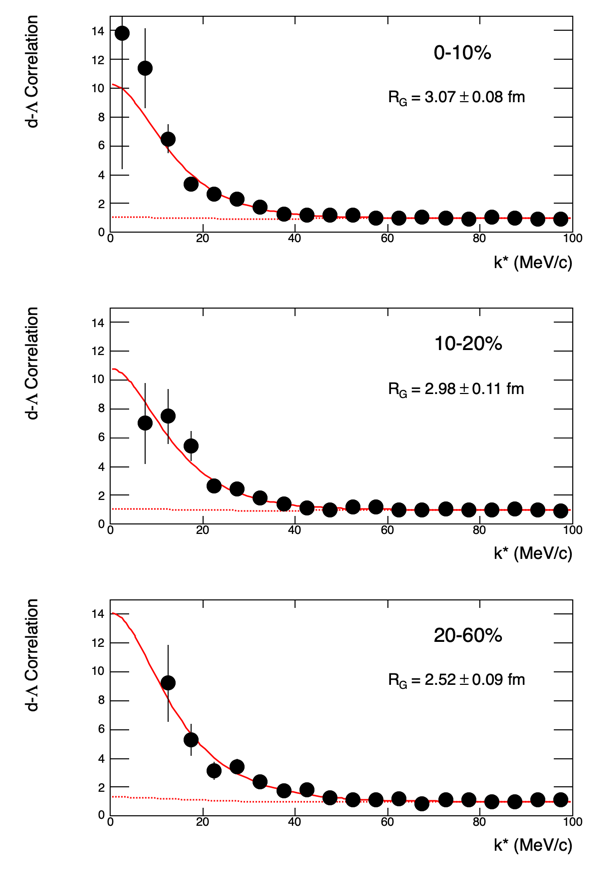
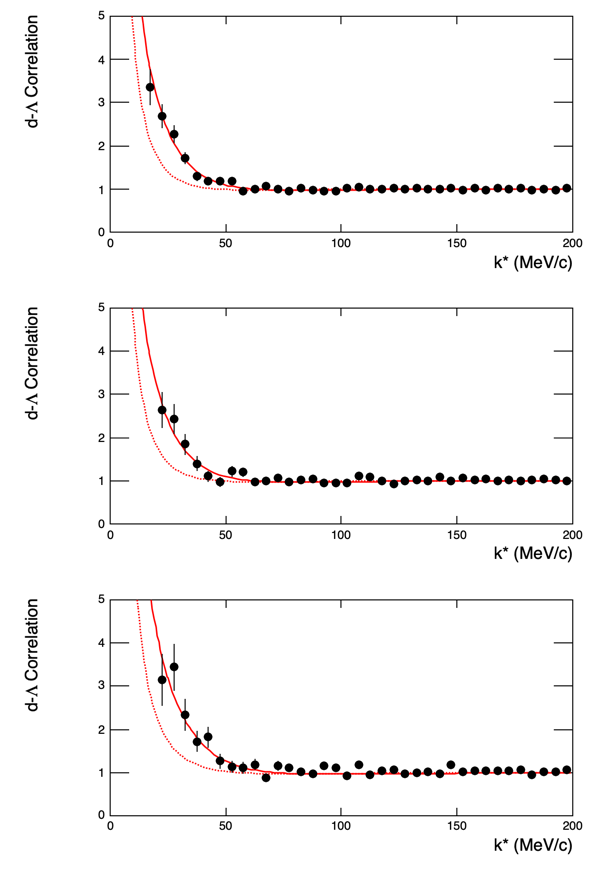
- fixed a bug in fixing parameters in Minuit fitting - added an option for drawing with some pre-set parameters - a few more labels added for different purposes

diff --git a/Hypernuclei/dLambda/Ckstar.C b/Hypernuclei/dLambda/Ckstar.C
@@ -1,11 +1,14 @@
 #include "style.C+"
 #include "draw.C+"
 //#define __EFF__  // allow efficiency for doublet?
+#define __FIT__
+//#define __CONTOUR__
 
 const double hbarc = 197.327;  // MeV * fm
 const double sqrtPi = TMath::Sqrt( TMath::Pi() );
 const Int_t NC = 3;
-const Int_t NP = 20;  // read in 40 points
+const Int_t NP = 40;  // read in 60 points
+const Double_t KMAX = NP*5.0;  // K* max
 #ifdef __EFF__
 const Int_t NPar = 8;  // R0, R1, R2, f00, d00, f01, d01, eff
 #else
@@ -97,8 +100,10 @@ void draw()
 {
   style();
 
-  const Double_t par0[2][2] = {{-16.8, 2.3}, {-16.3, 3.2}};
-  const Double_t par1[3][2] = {{17.3, 3.6}, {10.8, 3.8}, {7.6, 3.6}};
+  //  const Double_t par0[2][2] = {{-16.8, 2.3}, {-16.3, 3.2}};
+  //  const Double_t par1[3][2] = {{17.3, 3.6}, {10.8, 3.8}, {7.6, 3.6}};
+  const Double_t par0[2][2] = {{-16.8, 2.3}, {-40, 2.3}};
+  const Double_t par1[3][2] = {{17.3, 3.6}, {17.3, 3.6}, {17.3, 3.6}};
   
   TCanvas *c1 = new TCanvas("c1","c1",0,0,800,600);
   c1->Draw();
@@ -114,9 +119,10 @@ void draw()
   const Double_t RG = 2.5;
   ofstream outData;
   for(int i=0;i<6;i++) {
+    //    if(i%3!=0) continue;
     outData.open(Form("model/dl_model_R_2.5_D_%d_Q_%d.txt", i/3, i%3));
 
-    cf[i] = new TF1(Form("func_CF_dl_%d",i),CF_dl,0,200,5);
+    cf[i] = new TF1(Form("func_CF_dl_%d",i),CF_dl,0,KMAX,5);
     cf[i]->SetParameters(RG, par0[i/3][0], par0[i/3][1], par1[i%3][0], par1[i%3][1]);
     cf[i]->SetLineWidth(2);
     cf[i]->SetLineColor(i%3+1);
@@ -124,22 +130,22 @@ void draw()
     cf[i]->SetLineStyle(i/3+1);
     cf[i]->Draw("same");
 
-    cf_0[i] = new TF1(Form("func_CF_dl_0_%d",i),CF_dl_0,0,200,3);
+    cf_0[i] = new TF1(Form("func_CF_dl_0_%d",i),CF_dl_0,0,KMAX,3);
     cf_0[i]->SetParameters(RG, par0[i/3][0], par0[i/3][1]);
     cf_0[i]->SetLineWidth(2);
     cf_0[i]->SetLineColor(i%3+1);
     //    cf_0[i]->SetLineColor(2);
     cf_0[i]->SetLineStyle(i/3+1);
-    cf_0[i]->Draw("same");
+    //    cf_0[i]->Draw("same");
 
     
-    cf_1[i] = new TF1(Form("func_CF_dl_1_%d",i),CF_dl_1,0,200,3);
+    cf_1[i] = new TF1(Form("func_CF_dl_1_%d",i),CF_dl_1,0,KMAX,3);
     cf_1[i]->SetParameters(RG, par1[i%3][0], par1[i%3][1]);
     cf_1[i]->SetLineWidth(2);
     cf_1[i]->SetLineColor(i%3+1);
     //    cf_1[i]->SetLineColor(3);
     cf_1[i]->SetLineStyle(i/3+1);
-    cf_1[i]->Draw("same");
+    //    cf_1[i]->Draw("same");
 
     for(int j=0;j<200;j++) {
       double kstar = (j+0.5);
@@ -174,7 +180,27 @@ void fcn(int &npar, double *gin, double &f, double *par,int iflag ) {
   //  cout<<" chi2/ndf="<<sum/(gr_data[0]->GetN()*NC-NPar)<<endl;
 }
 
-
+double calChi2(double *par)
+{
+  double sum=0;
+  for(int ic=0;ic<NC;ic++) {
+    //    if(ic==0) continue;
+    cf_fun[ic]->SetParameter(0, par[ic]);
+    cf_fun[ic]->SetParameter(1, par[3]);
+    cf_fun[ic]->SetParameter(2, par[4]);
+    cf_fun[ic]->SetParameter(3, par[5]);
+    cf_fun[ic]->SetParameter(4, par[6]);
+#ifdef __EFF__
+    cf_fun[ic]->SetParameter(5, par[7]);
+#endif
+    for(int i=0;i<gr_data[ic]->GetN();i++){
+      double kstar = gr_data[ic]->GetX()[i];
+      
+      sum+=pow((gr_data[ic]->GetY()[i]-cf_fun[ic]->Eval(kstar))/gr_data[ic]->GetEY()[i],2.0);
+    }
+  }
+  return sum;
+}
 
 void Ckstar()
 {
@@ -194,13 +220,13 @@ void Ckstar()
   TF1 *cf_fun_1[NC];  // quartet contribution only
   for(int ic=0;ic<NC;ic++) {
 #ifdef __EFF__
-    cf_fun[ic] = new TF1(Form("cf_fun_%d",ic),CF_dl_eff,0,200,6);
-    cf_fun_0[ic] = new TF1(Form("cf_fun_0_%d",ic), CF_dl_0_eff,0,200,4);
-    cf_fun_1[ic] = new TF1(Form("cf_fun_1_%d",ic), CF_dl_1,0,200,3);  // no difference between w/ and w/o efficiency
+    cf_fun[ic] = new TF1(Form("cf_fun_%d",ic),CF_dl_eff,0,KMAX,6);
+    cf_fun_0[ic] = new TF1(Form("cf_fun_0_%d",ic), CF_dl_0_eff,0,KMAX,4);
+    cf_fun_1[ic] = new TF1(Form("cf_fun_1_%d",ic), CF_dl_1,0,KMAX,3);  // no difference between w/ and w/o efficiency
 #else
-    cf_fun[ic] = new TF1(Form("cf_fun_%d",ic),CF_dl,0,200,5);
-    cf_fun_0[ic] = new TF1(Form("cf_fun_0_%d",ic), CF_dl_0,0,200,3);
-    cf_fun_1[ic] = new TF1(Form("cf_fun_1_%d",ic), CF_dl_1,0,200,3);
+    cf_fun[ic] = new TF1(Form("cf_fun_%d",ic),CF_dl,0,KMAX,5);
+    cf_fun_0[ic] = new TF1(Form("cf_fun_0_%d",ic), CF_dl_0,0,KMAX,3);
+    cf_fun_1[ic] = new TF1(Form("cf_fun_1_%d",ic), CF_dl_1,0,KMAX,3);
 #endif
   }
 
@@ -216,17 +242,28 @@ void Ckstar()
   double var_min[NPar] = {2.0, 2.0, 2.0, -50., 2.3, 0., 3.6, 0.0};
   double var_max[NPar] = {4.0, 4.0, 4.0, -0., 2.3, 50., 3.6, 1.0};
 #else
+#ifdef __FIT__
   //  double var[NPar] = {3.0, 2.9, 2.4, -10., 2.3, 10, 3.6};
-  double var[NPar] = {3.0, 2.9, 2.5, -20., 2.3, 10, 3.6};
+  double var[NPar] = {3.0, 2.9, 2.5, -20., 3.2, 10, 3.6};
   double verr[NPar] = {0.3, 0.3, 0.3, 0.3, 0.1, 0.3, 0.1};
-  double var_min[NPar] = {2.5, 2.5, 2.0, -50., 2.3, 3., 3.6};
-  double var_max[NPar] = {3.5, 3.5, 3.0, -3., 2.3, 50., 3.6};
+  double var_min[NPar] = {2.5, 2.5, 2.0, -50., 1.0, 0., 2.0};
+  double var_max[NPar] = {3.5, 3.5, 3.0, -0., 4.0, 20., 5.0};
+#else
+  // double var[NPar] = {2.96646, 2.8894, 2.44925, -5.68461, 2.3, 13.2108, 3.6};
+  // double verr[NPar] = {0.3, 0.3, 0.3, 0.3, 0.1, 0.3, 0.1};
+  // double var_min[NPar] = {2.96646, 2.8894, 2.44925, -5.68461, 2.3, 13.2108, 3.6};
+  // double var_max[NPar] = {2.96646, 2.8894, 2.44925, -5.68461, 2.3, 13.2108, 3.6};
+  double var[NPar] = {2.79479, 2.73791, 2.19929, -37.9044, 2.3, 6.5963, 3.6};
+  double verr[NPar] = {0.3, 0.3, 0.3, 0.3, 0.1, 0.3, 0.1};
+#endif  
 #endif
   
   double err_mat[NPar][NPar];
-  
+
+#ifdef __FIT__
   TMinuit *gMinuit = new TMinuit(NPar);
   gMinuit->SetFCN(fcn);
+#endif
 
   double arglist[10];
 #ifdef __EFF__
@@ -244,10 +281,12 @@ void Ckstar()
   double p1 = 0;
   int npars = NPar;
   int matrix = 0;
+#ifdef __FIT__
   for(int i=0;i<NPar;i++) {
     gMinuit->mnparm( i, PARM_NAMES[i], var[i], verr[i], var_min[i], var_max[i], ivarbl);
+    gMinuit->FixParameter(4);
+    gMinuit->FixParameter(6);
   }
-  
 
   arglist[0] = 0.0001;
   gMinuit->mnexcm("SET EPSmachine", arglist, 2, ierflg );
@@ -266,21 +305,26 @@ void Ckstar()
 
   for(int i=0;i<NPar;i++) {
     gMinuit->GetParameter(i, var[i], verr[i]);
+    std::cout << PARM_NAMES[i] << "\t" << var[i] << " +/- " << verr[i] << std::endl;
   }
 
+#ifdef __CONTOUR__
   TGraph *gr_err[3];
   for(int i=0;i<3;i++) {
     //    if(i!=0) continue;
     gMinuit->SetErrorDef((i+1)*(i+1));
     gr_err[i] = (TGraph *)gMinuit->Contour(100, 3, 5);
   }
+#endif
+  
+#endif  
   
   for(int ip=0;ip<NC;ip++) {
     c1->cd(ip+1);
   
-    TH1D *hist = new TH1D("hist","",1,0,100);
+    TH1D *hist = new TH1D("hist","",1,0,KMAX);
     hist->SetMinimum(0.);
-    hist->SetMaximum(15.);
+    hist->SetMaximum(5.);
     hist->GetXaxis()->SetLabelOffset(0.015);
     hist->GetXaxis()->SetTitleOffset(1.0);
     hist->GetXaxis()->SetTitle("k* (MeV/c)");
@@ -310,27 +354,30 @@ void Ckstar()
     cf_fun_0[ip]->SetLineStyle(2);
     cf_fun_0[ip]->SetLineWidth(3);
     cf_fun_0[ip]->Draw("c same");
-    //    gr_data[ip]->SetMarkerSize(1.5);
-    //    gr_data[ip]->SetMarkerStyle(20);
+    gr_data[ip]->SetMarkerSize(1.0);
+    gr_data[ip]->SetMarkerStyle(20);
     gr_data[ip]->Draw("p");
 
     drawText(70, 12, LabelName[ip], 42, 0.08);
     drawText(60, 9, Form("R_{G} = %4.2f #pm %4.2f fm", var[ip], verr[ip]), 42, 0.065);
   }
+  double chi2 = calChi2(var);
+  cout<<"chi2 / NDF = "<<chi2 << " / " << (gr_data[0]->GetN()*3-NPar+2)<<endl;
 
   c1->Update();
   c1->SaveAs("CF_dl.pdf");
   c1->SaveAs("CF_dl.png");
 
 
+#ifdef __CONTOUR__
   TCanvas *c2 = new TCanvas("c2","c2",600,0,600,600);
   c1->SetBottomMargin(0.1);
   c1->SetLeftMargin(0.1);
   c1->Draw();
 
-  TH1D *hC = new TH1D("hC","", 1, -40, 0);
+  TH1D *hC = new TH1D("hC","", 1, -100, 0);
   hC->SetMinimum(0);
-  hC->SetMaximum(40);
+  hC->SetMaximum(20);
   hC->GetXaxis()->SetLabelOffset(0.01);
   hC->GetXaxis()->SetTitle("f_{D} (fm)");
   hC->GetYaxis()->SetTitle("f_{Q} (fm)");
@@ -343,6 +390,7 @@ void Ckstar()
     gr_err[i]->Draw("c");
   }
 
-  drawHistBox(-40, 0, 0, 40);
-  
+  drawHistBox(-100, 0, 0, 20);
+#endif
+
 }
